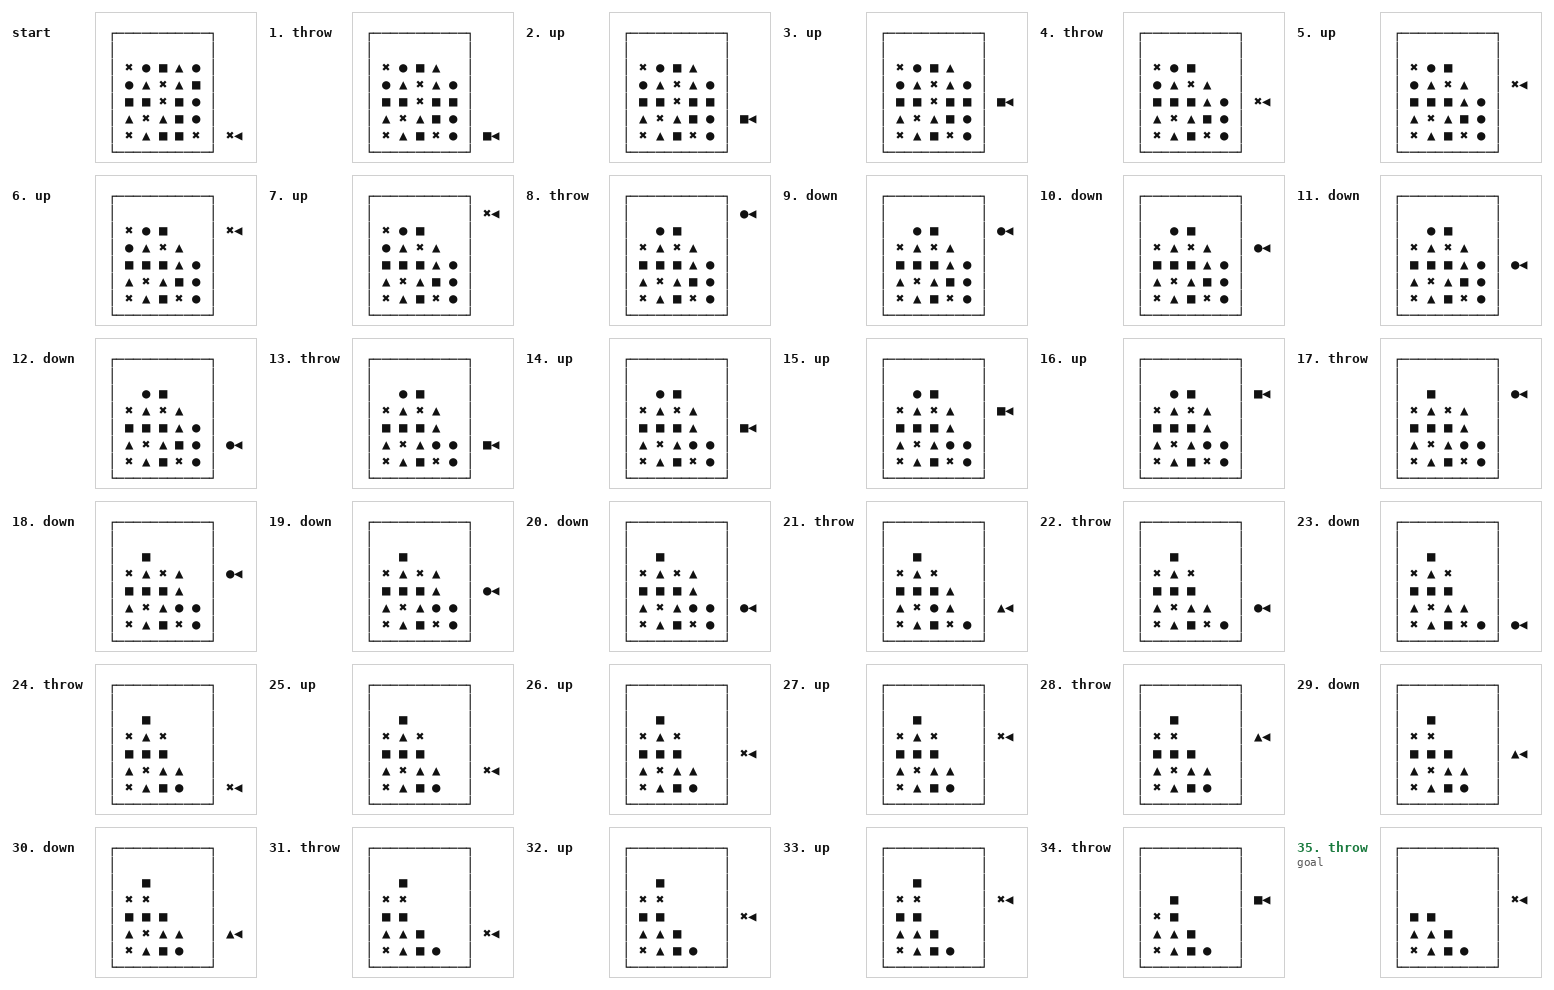
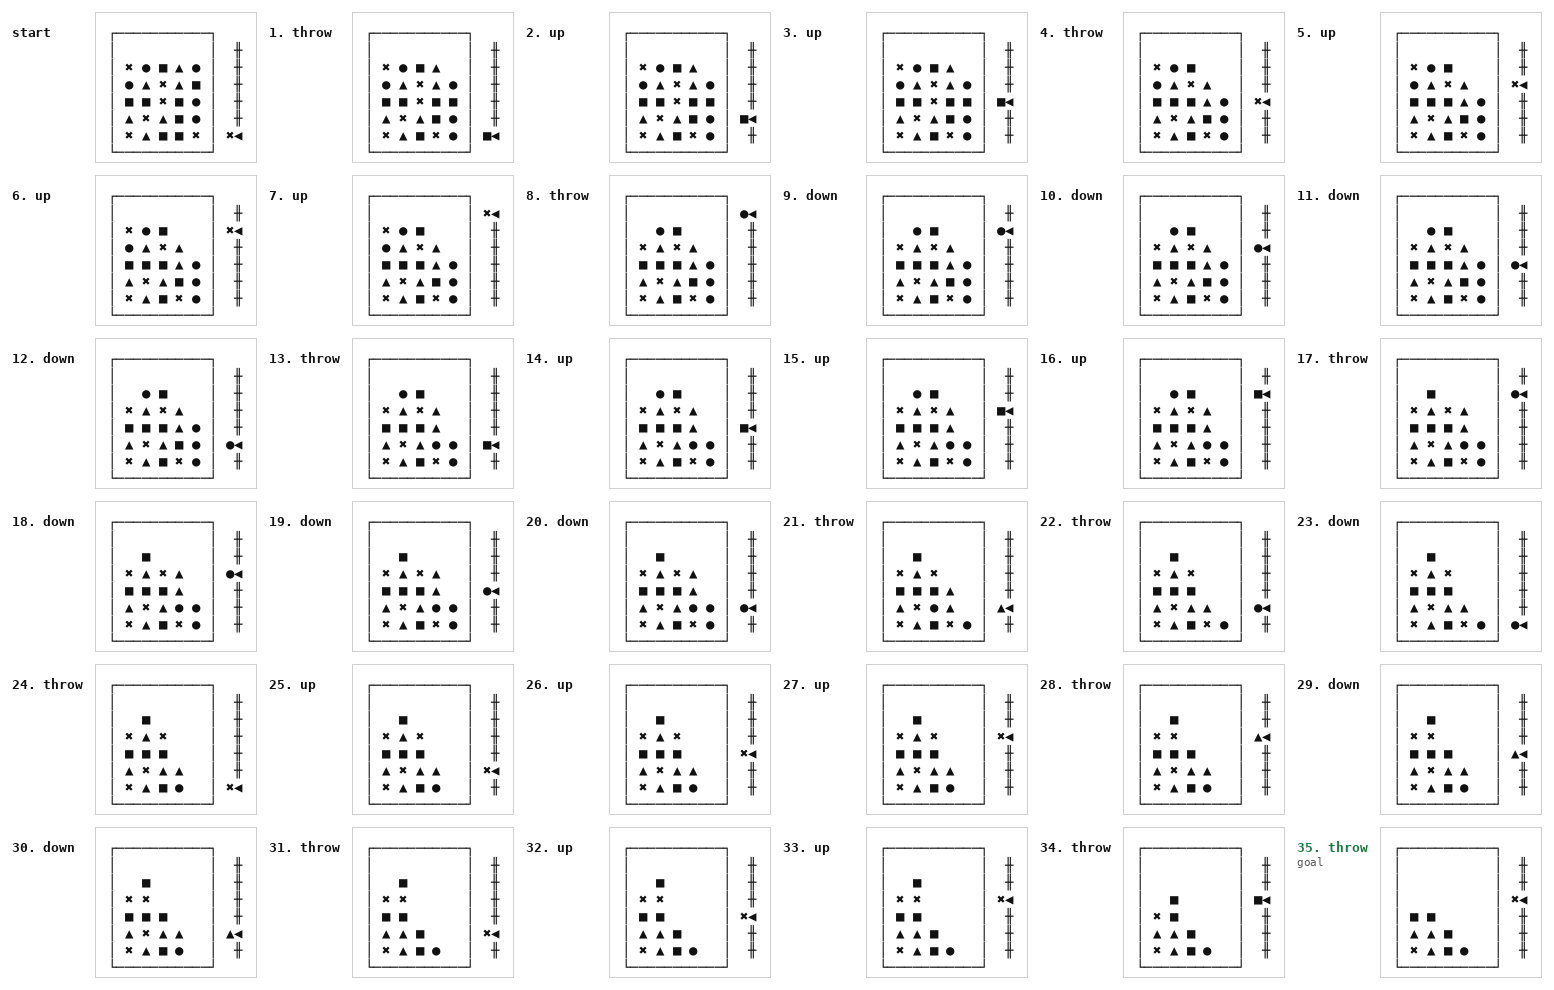
Draw the ladder the Flipull player climbs beside the board
Claude-Session: https://claude.ai/code/session_01CbUM6vVu3Q3wBSzyXUJpxb

diff --git a/planiverse/environments/games/flipull/environment.py b/planiverse/environments/games/flipull/environment.py
@@ -85,6 +85,8 @@ BLOCK_TYPES = ("1", "2", "3", "4")
 #: front of them.
 BLOCK_SYMBOLS = {"1": "●", "2": "▲", "3": "■", "4": "✖"}
 PLAYER = "◀"
+#: The ladder the player climbs beside the board, one rung a row.
+LADDER = "╫"
 
 #: `(stage, clear_target)`, matching the cartridge's own 32-entry stage table: the same
 #: board size (25, 30 or 36 blocks) and the same CLEAR target (9 down to 6) as each stage
@@ -520,13 +522,16 @@ class FlipullState:
 
     def __str__(self):
         """The board in black-and-white text: the walls joined into lines, each block type a
-        shape (`BLOCK_SYMBOLS`), the player outside the right-hand wall on their row with the
-        held block in front of them."""
+        shape (`BLOCK_SYMBOLS`), and a ladder down the outside of the right-hand wall with
+        the player on the rung of their row, the held block in front of them."""
         lines = boxed(["".join(cells) for cells in self.grid], wall=WALL,
                       glyphs=BLOCK_SYMBOLS).split("\n")
-        if self.row is not None and 0 <= self.row < len(lines):
-            lines[self.row] = (lines[self.row].ljust(2 * len(self.grid[self.row]))
-                               + BLOCK_SYMBOLS.get(self.held, self.held) + PLAYER)
+        for row in range(1, len(lines) - 1):
+            width = 2 * len(self.grid[row])
+            if row == self.row:
+                lines[row] = lines[row].ljust(width) + BLOCK_SYMBOLS.get(self.held, self.held) + PLAYER
+            else:
+                lines[row] = lines[row].ljust(width + 1) + LADDER
         return "\n".join(lines)
 
     def __repr__(self):

diff --git a/docs/environments/flipull.md b/docs/environments/flipull.md
@@ -269,6 +269,7 @@ give the same stage.
 | `●` `▲` `■` `✖` | a block of type `1`, `2`, `3`, `4` |
 | `◀` | the player, outside the right-hand wall on the row they stand on, aimed along it |
 | the shape before `◀` | the block in the player's hand |
+| `╫` | the ladder the player climbs, one rung a row |
 
 See [docs/rendering.md](../rendering.md) for the other output formats.
 
